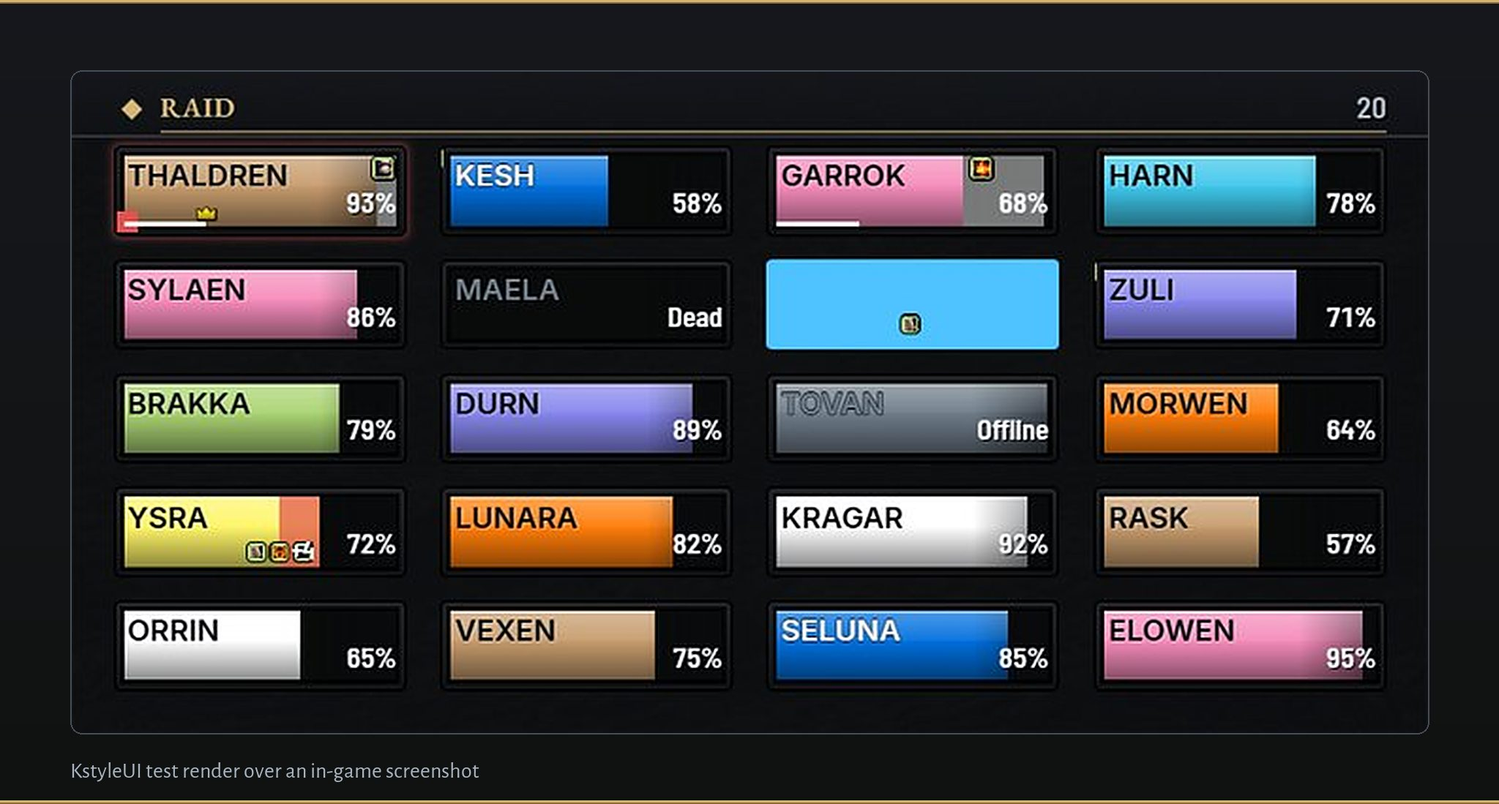
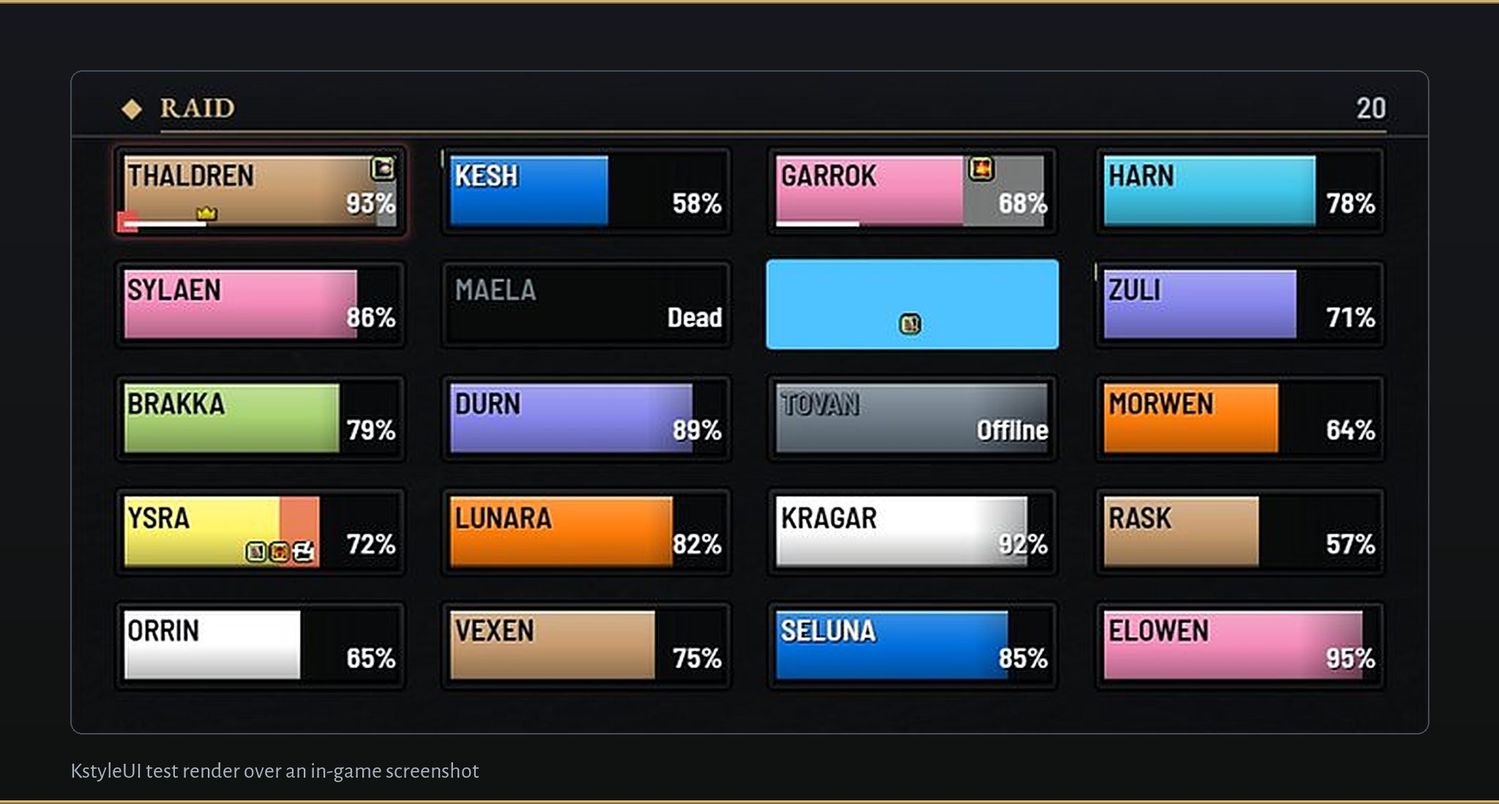
docs: README and store page for v0.3.0
Adds three highlight GIFs (clean screen at rest, cast targets and
interrupts, world map zeppelin route with the Nearest picker) and a
still of the lit glass bars and forged slab ends, retakes the README
stills on current staging, and updates the setup and bug report lines.

diff --git a/Tools/media/marketing.py b/Tools/media/marketing.py
@@ -4,7 +4,8 @@
     python3 Tools/media/marketing.py --pages    # also regenerate README.md and the
                                                 # CurseForge/Wago description blocks
                                                 # from docs/store/description.md
-    python3 Tools/media/marketing.py --clips [NAME ...]   # also render the highlight clips (LuaJIT, Chrome)
+    python3 Tools/media/marketing.py --clips [NAME ...]   # also render the highlight clips (LuaJIT, Chrome);
+                                                          # map.gif needs RENDER_MAP_ART, the client's Kalimdor map art
 
 Images only use the addon's own OFL fonts (Media/Fonts), its procedural logo
 (Tools/media/make_media.py), the colours in Core/Tokens.lua, the in-game /
@@ -38,6 +39,9 @@ GALLERY = [
     ("06-hawks.gif", "marketing/hawks.gif", None),
     ("07-hud.jpg", "readme/hud_1080.jpg", None),
     ("08-frames.jpg", "readme/hud_frames_1080.jpg", None),
+    ("09-rest.gif", "marketing/rest.gif", None),
+    ("10-casts.gif", "marketing/casts.gif", None),
+    ("11-map.gif", "marketing/map.gif", None),
 ]
 
 # Core/Tokens.lua colours.
@@ -62,6 +66,7 @@ PITCH2 = "Run the setup once and play."
 # Narrow crops framed at banner width so every picture fills the page column.
 SHOWCASES = [
     ("show_hud_1080.jpg", "hud_1080.jpg"),
+    ("show_hud_finish.jpg", "hud_finish.jpg"),
     ("show_hud_frames_1080.jpg", "hud_frames_1080.jpg"),
     ("show_frame_raid.jpg", "frame_raid.jpg"),
 ]
@@ -125,6 +130,16 @@ CLIPS = {
     "hawks.gif": (CREST, story("hud_hunter_mac", {"RENDER_FX": "hawks"}, "RENDER_FX_T", [
         (0.5, 0.5, 300), (0.9, 1.6, 0), (8.9, 9.6, 300), (18.9, 19.45, 0), (20.4, 21.1, 700),
     ], 0.7)),
+    "rest.gif": ((468, 792, 984, 270), [
+        ("hud_reference", {"RENDER_REST": "rest"}, "RENDER_REST_T", [0], 800),
+        ("hud_reference", {"RENDER_REST": "rest"}, "RENDER_REST_T", times(0.07, 0.63), 1400),
+        ("hud_reference", {"RENDER_REST": "target"}, "RENDER_REST_T", times(0.07, 0.21), 1600),
+    ]),
+    "casts.gif": ((1036, 886, 330, 92), [("hud_rogue_mac", {"RENDER_CAST_CUES": cue}, "RENDER_CAST_CUES_T", ts, hold)
+                                         for cue, ts, hold in (("aimed", times(0, 0.28), 700), ("you", times(0, 0.28), 900),
+                                                               ("locked", times(0, 0.28), 900), ("wait", times(0, 0.63), 1100))]),
+    "map.gif": ((446, 298, 698, 510), [("worldmap_roads", env, None, [0], 2400) for env in (
+        {"RENDER_MAP_TRIP": "zeppelin"}, {"RENDER_MAP_TRIP": "zeppelin", "RENDER_MAP_SERVICES": "1"})]),
 }
 
 README_HEADER = """<p align="center">
@@ -305,7 +320,7 @@ def write_gif(path, frames, durations):
     stack = Image.new("RGB", (frames[0].width, frames[0].height * len(sample)))
     for i, frame in enumerate(sample):
         stack.paste(frame, (0, i * frame.height))
-    palette = stack.quantize(colors=255, method=Image.Quantize.MEDIANCUT)
+    palette = stack.quantize(colors=255, method=Image.Quantize.FASTOCTREE)  # median cut turns a few frames' red bar brown
     indexed = [frame.quantize(palette=palette, dither=Image.Dither.NONE) for frame in frames]
     indexed[0].save(path, save_all=True, append_images=indexed[1:], duration=durations, loop=0, optimize=True, disposal=1)
 
@@ -315,6 +330,8 @@ def make_clip(name):
     from concurrent.futures import ThreadPoolExecutor
     from PIL import Image, ImageDraw
     box, shots = CLIPS[name]
+    if name == "map.gif" and not os.environ.get("RENDER_MAP_ART"):
+        raise SystemExit("map.gif: set RENDER_MAP_ART to the client's Kalimdor map art")
     jobs = [(scene, {**env, **({clock: str(t)} if clock else {})}) for scene, env, clock, ts, _ in shots for t in ts]
     with tempfile.TemporaryDirectory() as work:
         crops = [clip_frame(work, *jobs[0], box, True)]

diff --git a/Tools/render/readme.py b/Tools/render/readme.py
@@ -10,6 +10,7 @@ In-game Medallions media uses the game_ prefix and is preserved.
 The pictures:
 
   hud_1080         the whole HUD in combat on a 1920x1080 screen at the 15/16 size the game picks
+  hud_finish       the middle of the same HUD at twice the size: the lit glass bars and the forged slab ends
   hud_frames_1080  the same in the Frames look
   frame_raid       the raid frames with their heading, from the group frames gallery scene at twice the density
 
@@ -39,6 +40,7 @@ HUD = dict(HD, **COMBAT)
 
 RENDERS = {
     "hud_1080": ("hud_reference", 1.0, HUD, "--strict"),
+    "hud_2x": ("hud_reference", 2.0, HUD, "--strict"),
     "frames_1080": ("hud_reference", 1.0, dict(HUD, RENDER_HUD_STYLE="Frames", RENDER_ORNAMENTS="Full"), "--strict"),
     "groupframes": ("gallery_groupframes", 2.0, {}, "--strict"),
 }
@@ -46,6 +48,7 @@ RENDERS = {
 # name, source, crop, width. A source is "render:<RENDERS key>"; a crop is "WxH+X+Y" in the source's pixels or None. A picture narrower than its width stays as it is.
 IMAGES = [
     ("hud_1080", "render:hud_1080", None, 1920),
+    ("hud_finish", "render:hud_2x", "1856x444+992+1700", 1856),
     ("hud_frames_1080", "render:frames_1080", None, 1200),
     ("frame_raid", "render:groupframes", "904x442+106+724", 720),
 ]

diff --git a/Tools/tests/test_marketing.py b/Tools/tests/test_marketing.py
@@ -186,7 +186,7 @@ class MasterDescription(unittest.TestCase):
         master = MASTER.read_text(encoding="utf-8")
         prose = re.sub(r"!\[[^\]]*\]\([^)]*\)", "", master)
         self.assertLessEqual(len(prose.split()), 800, "Fix: the owner asked for a short page; link GitHub for detail")
-        self.assertLessEqual(master.count("!["), 12, "Fix: one picture or clip per feature")
+        self.assertLessEqual(master.count("!["), 13, "Fix: one picture or clip per feature")
         for tell in ("\u2014", "Elevate", "Seamless", "Unleash", "Whether you"):
             self.assertNotIn(tell, master, "Fix: write it the way the owner talks, without " + repr(tell))
 

diff --git a/docs/store/wago.md b/docs/store/wago.md
@@ -55,6 +55,18 @@ Every picture below is a test render of the addon over my own in-game screenshot
 
 *The whole thing in Medallions. Your RestedXP or Zygor guide sits top left and your quests sit on the right under the map.*
 
+![KstyleUI test render over an in-game screenshot of the middle of the Medallions HUD: lit glass bars and forged steel ends on the player and target frames](https://raw.githubusercontent.com/korallis/KstyleUI/main/docs/media/marketing/show_hud_finish.jpg)
+
+*Every bar has a lit glass finish now, and the Medallions frames end in forged steel caps.*
+
+![KstyleUI test render over an in-game screenshot: the action bars and player frame fading back out of combat, then snapping back when a target is picked](https://raw.githubusercontent.com/korallis/KstyleUI/main/docs/media/marketing/rest.gif)
+
+*Out of combat with nothing targeted, your bars fade back so you can see the game. Target something and they're straight back.*
+
+![KstyleUI test render over an in-game screenshot: a target's cast bar naming who the spell is aimed at, then YOU, a shield on a cast you can't interrupt, and a dim bar with a gold mark while your interrupt recharges](https://raw.githubusercontent.com/korallis/KstyleUI/main/docs/media/marketing/casts.gif)
+
+*Enemy cast bars say who the spell is aimed at, or YOU. A shield means you can't kick it, and a gold mark shows where your kick is back.*
+
 ![KstyleUI test render over an in-game screenshot of the Frames look on a 1920 by 1080 screen: the target's card stacked over the player's above the action bars](https://raw.githubusercontent.com/korallis/KstyleUI/main/docs/media/marketing/show_hud_frames_1080.jpg)
 
 *If the crest isn't your thing, Frames is the other look: big plain cards for you and your target, same forged style. Pick it in the setup, or switch any time under HUD style on the General page of `/kstyle`.*
@@ -63,19 +75,23 @@ Every picture below is a test render of the addon over my own in-game screenshot
 
 *Party and raid frames get the same look, with the debuffs you can dispel up front.*
 
-There's a lot more in there than fits here: nameplates, a damage and threat meter, bags, tooltips, chat, skins for most of Blizzard's windows and a world map that plans your route. Every bit of it can be switched off in `/kstyle`. Each module has a README on [GitHub](https://github.com/korallis/KstyleUI) with all its settings.
+![KstyleUI test render over an in-game screenshot, with the game's own map art: a route to the Undercity by road and zeppelin, then the Nearest innkeeper, bank and trainer picker](https://raw.githubusercontent.com/korallis/KstyleUI/main/docs/media/marketing/map.gif)
+
+*The map plans your route, zeppelins and the tram included, and finds the nearest innkeeper, bank or trainer you've been to. The map art is the game's own.*
+
+There's a lot more in there than fits here: nameplates, a damage and threat meter, bags, tooltips, chat and skins for most of Blizzard's windows. Every bit of it can be switched off in `/kstyle`. Each module has a README on [GitHub](https://github.com/korallis/KstyleUI) with all its settings.
 
 ## Install
 
 1. Install it with the CurseForge app, the Wago app or WowUp. By hand, unzip it into `World of Warcraft/_forever_/Interface/AddOns`.
-2. Log in, pick Medallions or Frames and then DPS, Tank or Healer in the setup window, then click **Apply** and **Reload**.
+2. Log in, pick Medallions or Frames and a Look, then DPS, Tank or Healer in the setup window, then click **Apply** and **Reload**.
 3. `/kstyle` opens the settings, `/kstyle layout` lets you move stuff and `/kb` binds your keys.
 
 The icon pack is optional and isn't an addon, so it's only on [GitHub](https://github.com/korallis/KstyleUI/releases/latest). The [icon pack guide](https://github.com/korallis/KstyleUI/blob/main/docs/icons.md) has the steps.
 
 ## Links
 
-- Help, bug reports and news: [Discord](https://discord.gg/A5qqGZEXyN)
+- Help, bug reports and news: [Discord](https://discord.gg/A5qqGZEXyN). For a bug, paste the report from About > Status in `/kstyle`.
 - Source code: https://github.com/korallis/KstyleUI
 
 ## Credits
@@ -132,5 +148,8 @@ Upload in this order. The gallery description is the caption.
 | `gallery/06-hawks.gif` | 800×494 | Hawk perches | KstyleUI test render over an in-game screenshot: a hunter's hawk perches on the crest ring, each with a timer for its hawk. Icons in this picture are the optional AI-made icon pack, not art shipped in the addon. |
 | `gallery/07-hud.jpg` | 1920×1080 | The whole HUD | KstyleUI test render over an in-game screenshot of the whole HUD on a 1920 by 1080 screen: the guide card top left, the quests on the right under the map. Icons in this picture are the optional AI-made icon pack, not art shipped in the addon. |
 | `gallery/08-frames.jpg` | 1200×675 | The Frames look | KstyleUI test render over an in-game screenshot of the Frames look on a 1920 by 1080 screen: the target's card stacked over the player's above the action bars. Icons in this picture are the optional AI-made icon pack, not art shipped in the addon. |
+| `gallery/09-rest.gif` | 800×261 | Clean screen at rest | KstyleUI test render over an in-game screenshot: out of combat with no target, the bars and player frame fade back, then a target brings them straight back. Icons in this picture are the optional AI-made icon pack, not art shipped in the addon. |
+| `gallery/10-casts.gif` | 800×264 | Who a cast is aimed at | KstyleUI test render over an in-game screenshot: a target's cast bar names who the spell is aimed at, says YOU, shields a cast you can't interrupt, then dims with a gold mark while your interrupt recharges. Icons in this picture are the optional AI-made icon pack, not art shipped in the addon. |
+| `gallery/11-map.gif` | 800×611 | Routes and nearest services | KstyleUI test render over an in-game screenshot, with the game's own map art: a route to the Undercity by road and zeppelin, then the Nearest picker for innkeepers, banks and trainers. Icons in this picture are the optional AI-made icon pack, not art shipped in the addon. |
 
 The upload page for a project, once it exists, is `https://addons.wago.io/developers/projects/<slug>/gallery/create`.

diff --git a/docs/store/curseforge.md b/docs/store/curseforge.md
@@ -68,6 +68,18 @@ Every picture below is a test render of the addon over my own in-game screenshot
 
 *The whole thing in Medallions. Your RestedXP or Zygor guide sits top left and your quests sit on the right under the map.*
 
+![KstyleUI test render over an in-game screenshot of the middle of the Medallions HUD: lit glass bars and forged steel ends on the player and target frames](https://raw.githubusercontent.com/korallis/KstyleUI/main/docs/media/marketing/show_hud_finish.jpg)
+
+*Every bar has a lit glass finish now, and the Medallions frames end in forged steel caps.*
+
+![KstyleUI test render over an in-game screenshot: the action bars and player frame fading back out of combat, then snapping back when a target is picked](https://raw.githubusercontent.com/korallis/KstyleUI/main/docs/media/marketing/rest.gif)
+
+*Out of combat with nothing targeted, your bars fade back so you can see the game. Target something and they're straight back.*
+
+![KstyleUI test render over an in-game screenshot: a target's cast bar naming who the spell is aimed at, then YOU, a shield on a cast you can't interrupt, and a dim bar with a gold mark while your interrupt recharges](https://raw.githubusercontent.com/korallis/KstyleUI/main/docs/media/marketing/casts.gif)
+
+*Enemy cast bars say who the spell is aimed at, or YOU. A shield means you can't kick it, and a gold mark shows where your kick is back.*
+
 ![KstyleUI test render over an in-game screenshot of the Frames look on a 1920 by 1080 screen: the target's card stacked over the player's above the action bars](https://raw.githubusercontent.com/korallis/KstyleUI/main/docs/media/marketing/show_hud_frames_1080.jpg)
 
 *If the crest isn't your thing, Frames is the other look: big plain cards for you and your target, same forged style. Pick it in the setup, or switch any time under HUD style on the General page of `/kstyle`.*
@@ -76,19 +88,23 @@ Every picture below is a test render of the addon over my own in-game screenshot
 
 *Party and raid frames get the same look, with the debuffs you can dispel up front.*
 
-There's a lot more in there than fits here: nameplates, a damage and threat meter, bags, tooltips, chat, skins for most of Blizzard's windows and a world map that plans your route. Every bit of it can be switched off in `/kstyle`. Each module has a README on [GitHub](https://github.com/korallis/KstyleUI) with all its settings.
+![KstyleUI test render over an in-game screenshot, with the game's own map art: a route to the Undercity by road and zeppelin, then the Nearest innkeeper, bank and trainer picker](https://raw.githubusercontent.com/korallis/KstyleUI/main/docs/media/marketing/map.gif)
+
+*The map plans your route, zeppelins and the tram included, and finds the nearest innkeeper, bank or trainer you've been to. The map art is the game's own.*
+
+There's a lot more in there than fits here: nameplates, a damage and threat meter, bags, tooltips, chat and skins for most of Blizzard's windows. Every bit of it can be switched off in `/kstyle`. Each module has a README on [GitHub](https://github.com/korallis/KstyleUI) with all its settings.
 
 ## Install
 
 1. Install it with the CurseForge app, the Wago app or WowUp. By hand, unzip it into `World of Warcraft/_forever_/Interface/AddOns`.
-2. Log in, pick Medallions or Frames and then DPS, Tank or Healer in the setup window, then click **Apply** and **Reload**.
+2. Log in, pick Medallions or Frames and a Look, then DPS, Tank or Healer in the setup window, then click **Apply** and **Reload**.
 3. `/kstyle` opens the settings, `/kstyle layout` lets you move stuff and `/kb` binds your keys.
 
 The icon pack is optional and isn't an addon, so it's only on [GitHub](https://github.com/korallis/KstyleUI/releases/latest). The [icon pack guide](https://github.com/korallis/KstyleUI/blob/main/docs/icons.md) has the steps.
 
 ## Links
 
-- Help, bug reports and news: [Discord](https://discord.gg/A5qqGZEXyN)
+- Help, bug reports and news: [Discord](https://discord.gg/A5qqGZEXyN). For a bug, paste the report from About > Status in `/kstyle`.
 - Source code: https://github.com/korallis/KstyleUI
 
 ## Credits
@@ -139,3 +155,6 @@ Upload in this order. Title, then caption.
 | `gallery/06-hawks.gif` | 800×494 | Hawk perches | KstyleUI test render over an in-game screenshot: a hunter's hawk perches on the crest ring, each with a timer for its hawk. Icons in this picture are the optional AI-made icon pack, not art shipped in the addon. |
 | `gallery/07-hud.jpg` | 1920×1080 | The whole HUD | KstyleUI test render over an in-game screenshot of the whole HUD on a 1920 by 1080 screen: the guide card top left, the quests on the right under the map. Icons in this picture are the optional AI-made icon pack, not art shipped in the addon. |
 | `gallery/08-frames.jpg` | 1200×675 | The Frames look | KstyleUI test render over an in-game screenshot of the Frames look on a 1920 by 1080 screen: the target's card stacked over the player's above the action bars. Icons in this picture are the optional AI-made icon pack, not art shipped in the addon. |
+| `gallery/09-rest.gif` | 800×261 | Clean screen at rest | KstyleUI test render over an in-game screenshot: out of combat with no target, the bars and player frame fade back, then a target brings them straight back. Icons in this picture are the optional AI-made icon pack, not art shipped in the addon. |
+| `gallery/10-casts.gif` | 800×264 | Who a cast is aimed at | KstyleUI test render over an in-game screenshot: a target's cast bar names who the spell is aimed at, says YOU, shields a cast you can't interrupt, then dims with a gold mark while your interrupt recharges. Icons in this picture are the optional AI-made icon pack, not art shipped in the addon. |
+| `gallery/11-map.gif` | 800×611 | Routes and nearest services | KstyleUI test render over an in-game screenshot, with the game's own map art: a route to the Undercity by road and zeppelin, then the Nearest picker for innkeepers, banks and trainers. Icons in this picture are the optional AI-made icon pack, not art shipped in the addon. |

diff --git a/README.md b/README.md
@@ -38,6 +38,18 @@ Every picture below is a test render of the addon over my own in-game screenshot
 
 *The whole thing in Medallions. Your RestedXP or Zygor guide sits top left and your quests sit on the right under the map.*
 
+![KstyleUI test render over an in-game screenshot of the middle of the Medallions HUD: lit glass bars and forged steel ends on the player and target frames](https://raw.githubusercontent.com/korallis/KstyleUI/main/docs/media/marketing/show_hud_finish.jpg)
+
+*Every bar has a lit glass finish now, and the Medallions frames end in forged steel caps.*
+
+![KstyleUI test render over an in-game screenshot: the action bars and player frame fading back out of combat, then snapping back when a target is picked](https://raw.githubusercontent.com/korallis/KstyleUI/main/docs/media/marketing/rest.gif)
+
+*Out of combat with nothing targeted, your bars fade back so you can see the game. Target something and they're straight back.*
+
+![KstyleUI test render over an in-game screenshot: a target's cast bar naming who the spell is aimed at, then YOU, a shield on a cast you can't interrupt, and a dim bar with a gold mark while your interrupt recharges](https://raw.githubusercontent.com/korallis/KstyleUI/main/docs/media/marketing/casts.gif)
+
+*Enemy cast bars say who the spell is aimed at, or YOU. A shield means you can't kick it, and a gold mark shows where your kick is back.*
+
 ![KstyleUI test render over an in-game screenshot of the Frames look on a 1920 by 1080 screen: the target's card stacked over the player's above the action bars](https://raw.githubusercontent.com/korallis/KstyleUI/main/docs/media/marketing/show_hud_frames_1080.jpg)
 
 *If the crest isn't your thing, Frames is the other look: big plain cards for you and your target, same forged style. Pick it in the setup, or switch any time under HUD style on the General page of `/kstyle`.*
@@ -46,19 +58,23 @@ Every picture below is a test render of the addon over my own in-game screenshot
 
 *Party and raid frames get the same look, with the debuffs you can dispel up front.*
 
-There's a lot more in there than fits here: nameplates, a damage and threat meter, bags, tooltips, chat, skins for most of Blizzard's windows and a world map that plans your route. Every bit of it can be switched off in `/kstyle`. Each module has a README on [GitHub](https://github.com/korallis/KstyleUI) with all its settings.
+![KstyleUI test render over an in-game screenshot, with the game's own map art: a route to the Undercity by road and zeppelin, then the Nearest innkeeper, bank and trainer picker](https://raw.githubusercontent.com/korallis/KstyleUI/main/docs/media/marketing/map.gif)
+
+*The map plans your route, zeppelins and the tram included, and finds the nearest innkeeper, bank or trainer you've been to. The map art is the game's own.*
+
+There's a lot more in there than fits here: nameplates, a damage and threat meter, bags, tooltips, chat and skins for most of Blizzard's windows. Every bit of it can be switched off in `/kstyle`. Each module has a README on [GitHub](https://github.com/korallis/KstyleUI) with all its settings.
 
 ## Install
 
 1. Install it with the CurseForge app, the Wago app or WowUp. By hand, unzip it into `World of Warcraft/_forever_/Interface/AddOns`.
-2. Log in, pick Medallions or Frames and then DPS, Tank or Healer in the setup window, then click **Apply** and **Reload**.
+2. Log in, pick Medallions or Frames and a Look, then DPS, Tank or Healer in the setup window, then click **Apply** and **Reload**.
 3. `/kstyle` opens the settings, `/kstyle layout` lets you move stuff and `/kb` binds your keys.
 
 The icon pack is optional and isn't an addon, so it's only on [GitHub](https://github.com/korallis/KstyleUI/releases/latest). The [icon pack guide](https://github.com/korallis/KstyleUI/blob/main/docs/icons.md) has the steps.
 
 ## Links
 
-- Help, bug reports and news: [Discord](https://discord.gg/A5qqGZEXyN)
+- Help, bug reports and news: [Discord](https://discord.gg/A5qqGZEXyN). For a bug, paste the report from About > Status in `/kstyle`.
 - Source code: https://github.com/korallis/KstyleUI
 
 ## Credits

diff --git a/docs/store/description.md b/docs/store/description.md
@@ -32,6 +32,18 @@ Every picture below is a test render of the addon over my own in-game screenshot
 
 *The whole thing in Medallions. Your RestedXP or Zygor guide sits top left and your quests sit on the right under the map.*
 
+![KstyleUI test render over an in-game screenshot of the middle of the Medallions HUD: lit glass bars and forged steel ends on the player and target frames](https://raw.githubusercontent.com/korallis/KstyleUI/main/docs/media/marketing/show_hud_finish.jpg)
+
+*Every bar has a lit glass finish now, and the Medallions frames end in forged steel caps.*
+
+![KstyleUI test render over an in-game screenshot: the action bars and player frame fading back out of combat, then snapping back when a target is picked](https://raw.githubusercontent.com/korallis/KstyleUI/main/docs/media/marketing/rest.gif)
+
+*Out of combat with nothing targeted, your bars fade back so you can see the game. Target something and they're straight back.*
+
+![KstyleUI test render over an in-game screenshot: a target's cast bar naming who the spell is aimed at, then YOU, a shield on a cast you can't interrupt, and a dim bar with a gold mark while your interrupt recharges](https://raw.githubusercontent.com/korallis/KstyleUI/main/docs/media/marketing/casts.gif)
+
+*Enemy cast bars say who the spell is aimed at, or YOU. A shield means you can't kick it, and a gold mark shows where your kick is back.*
+
 ![KstyleUI test render over an in-game screenshot of the Frames look on a 1920 by 1080 screen: the target's card stacked over the player's above the action bars](https://raw.githubusercontent.com/korallis/KstyleUI/main/docs/media/marketing/show_hud_frames_1080.jpg)
 
 *If the crest isn't your thing, Frames is the other look: big plain cards for you and your target, same forged style. Pick it in the setup, or switch any time under HUD style on the General page of `/kstyle`.*
@@ -40,19 +52,23 @@ Every picture below is a test render of the addon over my own in-game screenshot
 
 *Party and raid frames get the same look, with the debuffs you can dispel up front.*
 
-There's a lot more in there than fits here: nameplates, a damage and threat meter, bags, tooltips, chat, skins for most of Blizzard's windows and a world map that plans your route. Every bit of it can be switched off in `/kstyle`. Each module has a README on [GitHub](https://github.com/korallis/KstyleUI) with all its settings.
+![KstyleUI test render over an in-game screenshot, with the game's own map art: a route to the Undercity by road and zeppelin, then the Nearest innkeeper, bank and trainer picker](https://raw.githubusercontent.com/korallis/KstyleUI/main/docs/media/marketing/map.gif)
+
+*The map plans your route, zeppelins and the tram included, and finds the nearest innkeeper, bank or trainer you've been to. The map art is the game's own.*
+
+There's a lot more in there than fits here: nameplates, a damage and threat meter, bags, tooltips, chat and skins for most of Blizzard's windows. Every bit of it can be switched off in `/kstyle`. Each module has a README on [GitHub](https://github.com/korallis/KstyleUI) with all its settings.
 
 ## Install
 
 1. Install it with the CurseForge app, the Wago app or WowUp. By hand, unzip it into `World of Warcraft/_forever_/Interface/AddOns`.
-2. Log in, pick Medallions or Frames and then DPS, Tank or Healer in the setup window, then click **Apply** and **Reload**.
+2. Log in, pick Medallions or Frames and a Look, then DPS, Tank or Healer in the setup window, then click **Apply** and **Reload**.
 3. `/kstyle` opens the settings, `/kstyle layout` lets you move stuff and `/kb` binds your keys.
 
 The icon pack is optional and isn't an addon, so it's only on [GitHub](https://github.com/korallis/KstyleUI/releases/latest). The [icon pack guide](https://github.com/korallis/KstyleUI/blob/main/docs/icons.md) has the steps.
 
 ## Links
 
-- Help, bug reports and news: [Discord](https://discord.gg/A5qqGZEXyN)
+- Help, bug reports and news: [Discord](https://discord.gg/A5qqGZEXyN). For a bug, paste the report from About > Status in `/kstyle`.
 - Source code: https://github.com/korallis/KstyleUI
 
 ## Credits
